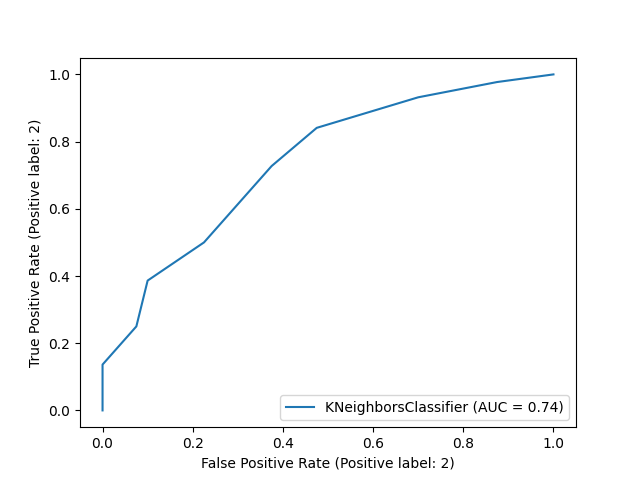
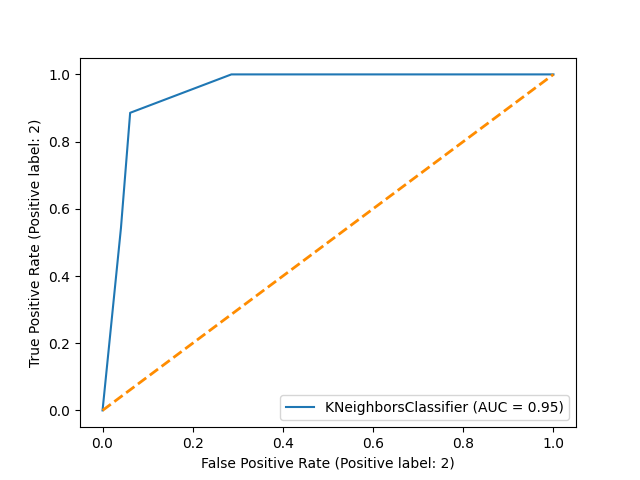
test plots

diff --git a/Backend/Models/KNN/KNN_testing.py b/Backend/Models/KNN/KNN_testing.py
@@ -1,11 +1,7 @@
-import pickle
-import pickle
-
 import matplotlib.pyplot as plt
 import sklearn
 import sklearn.metrics as metrics
 from sklearn.metrics import plot_confusion_matrix, accuracy_score
-from sklearn.model_selection import train_test_split
 
 import methods
 
@@ -17,24 +13,19 @@ path = ""
 # dataset_type = "_ADASYN"
 dataset_type = "_SMOTE_improved"
 
-# pd_data = pd.read_csv('Data/DetectPD.csv')
-clf = methods.find_highest_accuracy_model(path, dataset_type)
+clf, data = methods.find_highest_accuracy_model(path, dataset_type)
 
-
-X, y = methods.preprocessing_columns(path, dataset_type)
-
-# splitting data into testing data and training data
-X_train, X_test, y_train, y_test = train_test_split(X, y, test_size=0.1)
+print(data.keys())
 
 # Adding the split data into classifier
-clf.fit(X_train, y_train)
+clf.fit(data['x_train'], data['y_train'])
 
 # Running predictions using  test data
-predictions = clf.predict(X_test)
+predictions = clf.predict(data['x_test'])
 
 # getting accuracy as percentage
-accuracy = accuracy_score(y_test, predictions) * 100
-message = sklearn.metrics.classification_report(y_test, predictions) + f"\nAccuracy: {accuracy}"
+accuracy = accuracy_score(data['y_test'], predictions) * 100
+message = sklearn.metrics.classification_report(data['y_test'], predictions) + f"\nAccuracy: {accuracy}"
 
 file = open(f"diagrams/DetectPD{dataset_type}/DetectPD{dataset_type}_Results.txt", "w")
 file.write(message)
@@ -42,18 +33,16 @@ file.close()
 
 # Creating confusion matrix
 labels = ['negative', 'positive']
-# confusion_matrix(y_test, predictions)
-# print(confusion_matrix)
 
 titles_options = [("Confusion matrix, without normalization", None),
                   ("Normalized confusion matrix", 'true')]
 for title, normalize in titles_options:
-    disp = plot_confusion_matrix(clf, X_test, y_test, display_labels=labels, cmap=plt.cm.Blues, normalize=normalize)
+    disp = plot_confusion_matrix(clf, data['x_test'], data['y_test'], display_labels=labels, cmap=plt.cm.Blues,
+                                 normalize=normalize)
     disp.ax_.set_title(title)
     plt.savefig(f"diagrams/DetectPD{dataset_type}/DetectPD{dataset_type}_{title}.png".replace(" ", "_").replace(",", ""))
-    # print(title)
-    # print(disp.confusion_matrix)
 
 # plotting ROC curve
-metrics.plot_roc_curve(clf, X_test, y_test)
+metrics.plot_roc_curve(clf, data['x_test'], data['y_test'])
+plt.plot([0, 1], [0, 1], color='darkorange', lw=2, linestyle='--')
 plt.savefig(f"diagrams/DetectPD{dataset_type}/DetectPD{dataset_type}_roc_curve.png")

diff --git a/Backend/Models/KNN/methods.py b/Backend/Models/KNN/methods.py
@@ -2,11 +2,13 @@ import pickle
 
 import pandas as pd
 import sklearn
+from sklearn.metrics import accuracy_score
 from sklearn.neighbors import KNeighborsClassifier
 
 
 def find_highest_accuracy_model(path, dataset_type):
     highest_accuracy_model = None
+    highest_accuracy_model_data = None
     highest_model_accuracy = 0
 
     # Reading all the save pickle files to make result md files.
@@ -23,13 +25,22 @@ def find_highest_accuracy_model(path, dataset_type):
                 open(f"{path}DetectPD{dataset_type}/KNN_BestData{dataset_type}_n({neighbors})_size({test_size}).pickle",
                      "rb"))
             best_model = loaded_best_model.fit(loaded_best_data['x_train'], loaded_best_data['y_train'])
-            best_acc = best_model.score(loaded_best_data['x_test'], loaded_best_data['y_test'])
+
+            # Running predictions using  test data
+            predictions = best_model.predict(loaded_best_data['x_test'])
+
+            # getting accuracy as percentage
+            best_acc = accuracy_score(loaded_best_data['y_test'], predictions) * 100
+
+            # best_acc = best_model.score(loaded_best_data['x_test'], loaded_best_data['y_test'])
 
             # saving the highest best, lowest worst and lowest different accuracy model details.
             if highest_model_accuracy < best_acc:
                 highest_accuracy_model = loaded_best_model
+                highest_accuracy_model_data = loaded_best_data
+                highest_model_accuracy = best_acc
 
-    return highest_accuracy_model
+    return highest_accuracy_model, highest_accuracy_model_data
 
 
 def print_results(path, dataset_type):

diff --git a/Backend/Models/KNN/main.py b/Backend/Models/KNN/main.py
@@ -5,11 +5,11 @@ import methods
 # path = "/content/drive/MyDrive/Colab Notebooks/detect_pd"
 path = ""
 
-dataset_type = ""
+# dataset_type = ""
 # dataset_type = "_SMOTE"
 # dataset_type = "_RandomOverSampler"
 # dataset_type = "_ADASYN"
-# dataset_type = "_SMOTE_improved"
+dataset_type = "_SMOTE_improved"
 
 # preprocessing dataset
 # x, y = methods.preprocessing_columns(path, dataset_type)
